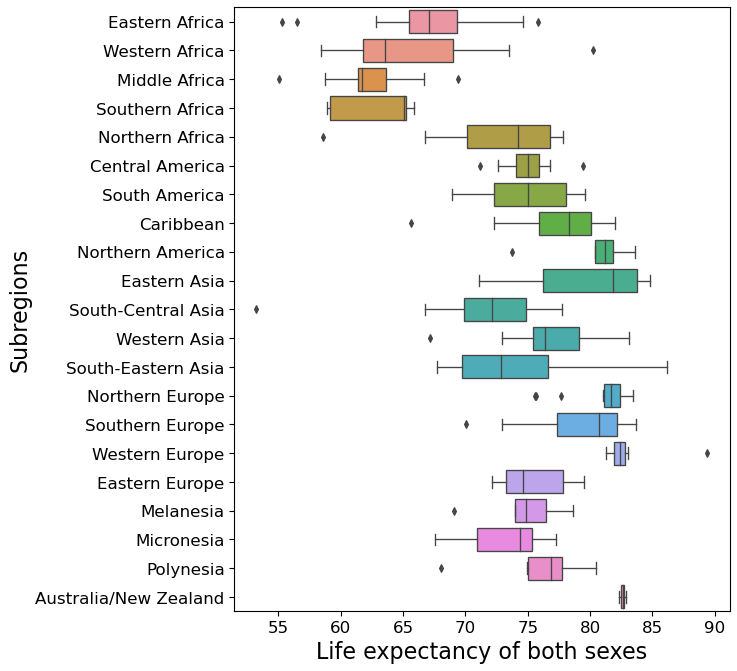
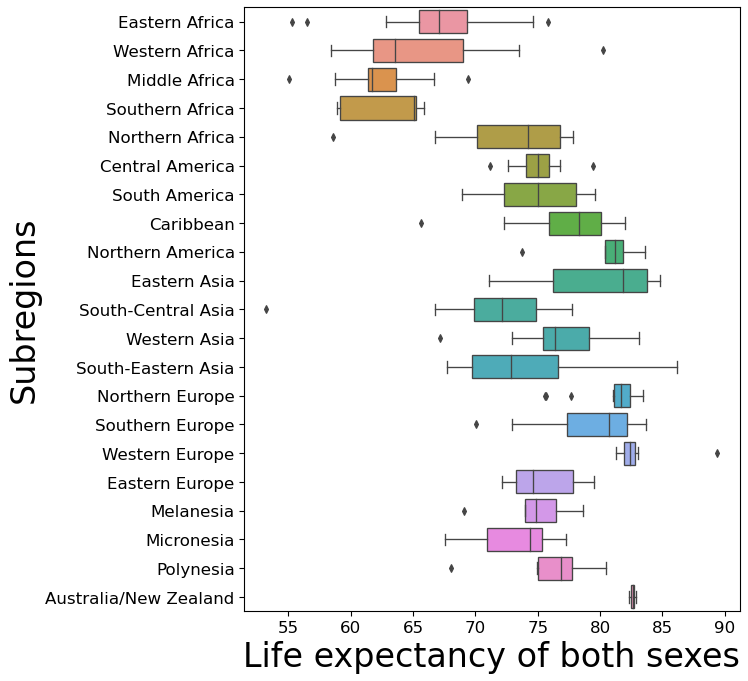
Updated markdown to submission version

diff --git a/Markdown/Problem_1_Code_Raj_231811.md b/Markdown/Problem_1_Code_Raj_231811.md
@@ -415,7 +415,7 @@ plt.savefig('Plots/Heat_Map_Pearson_Correlation.pdf')
 
 
 ```python
-plt.figure(figsize=(10, 10), dpi=100)
+plt.figure(figsize=(10, 10), dpi=80)
 cols_to_plot = data_from_year_2021.columns[4:8].tolist()
 sns_pair = sns.pairplot(data_from_year_2021[cols_to_plot], size=4)
 sns.set_context("paper", rc={"axes.labelsize":16})
@@ -425,7 +425,7 @@ sns_pair.savefig('Plots/Pairplot_Four_Variables.pdf')
 ```
 
 
-    <Figure size 1000x1000 with 0 Axes>
+    <Figure size 800x800 with 0 Axes>
 
 
 
@@ -441,8 +441,8 @@ sns_pair.savefig('Plots/Pairplot_Four_Variables.pdf')
 # Boxplots for describing the data for subregions - Infant mortality rate for both sexes
 plt.figure(figsize=(8, 10), dpi=80)
 ax = sns.boxplot(x='Infant_Mortality_Rate_Both_Sexes', y='Subregion', data=data_from_year_2021.sort_values(by="Region"))
-plt.xlabel("Infant mortality rate of both sexes", fontsize=20)
-plt.ylabel("Subregions", fontsize=20)
+plt.xlabel("Infant mortality rate of both sexes", fontsize=30)
+plt.ylabel("Subregions", fontsize=30)
 plt.show()
 plt.savefig('Plots/Boxplot_Infant_Mortality_Rate_Both_Sexes.pdf')
 ```
@@ -462,8 +462,8 @@ plt.savefig('Plots/Boxplot_Infant_Mortality_Rate_Both_Sexes.pdf')
 # Boxplots for describing the data for subregions - Life expectancy of both sexes
 plt.figure(figsize=(8, 10), dpi=80)
 ax = sns.boxplot(x='Life_Expectancy_Both_Sexes', y='Subregion', data=data_from_year_2021.sort_values(by="Region"))
-plt.xlabel("Life expectancy of both sexes", fontsize=20)
-plt.ylabel("Subregions", fontsize=20)
+plt.xlabel("Life expectancy of both sexes", fontsize=30)
+plt.ylabel("Subregions", fontsize=30)
 plt.show()
 plt.savefig('Plots/Boxplot_Life_Expectancy_Both_Sexes.pdf')
 ```
@@ -483,8 +483,8 @@ plt.savefig('Plots/Boxplot_Life_Expectancy_Both_Sexes.pdf')
 # Boxplots for describing the data for subregions - Life expectancy of males
 plt.figure(figsize=(8, 10), dpi=80)
 ax = sns.boxplot(x='Life_Expectancy_Males', y='Subregion', data=data_from_year_2021.sort_values(by="Region"))
-plt.xlabel("Life expectancy of males", fontsize=20)
-plt.ylabel("Subregions", fontsize=20)
+plt.xlabel("Life expectancy of males", fontsize=30)
+plt.ylabel("Subregions", fontsize=30)
 plt.show()
 plt.savefig('Plots/Boxplot_Life_Expectancy_Males.pdf')
 ```
@@ -504,8 +504,8 @@ plt.savefig('Plots/Boxplot_Life_Expectancy_Males.pdf')
 # Boxplots for describing the data for subregions - Life expectancy of females
 plt.figure(figsize=(8, 10), dpi=80)
 ax = sns.boxplot(x='Life_Expectancy_Females', y='Subregion', data=data_from_year_2021.sort_values(by="Region"))
-plt.xlabel("Life expectancy of females", fontsize=20)
-plt.ylabel("Subregions", fontsize=20)
+plt.xlabel("Life expectancy of females", fontsize=30)
+plt.ylabel("Subregions", fontsize=30)
 plt.show()
 plt.savefig('Plots/Boxplot_Life_Expectancy_Females.pdf')
 ```
@@ -559,7 +559,8 @@ new_df["Region"] = np.array(data_from_year_2001["Region"])
 new_df["Country.Name"] = np.array(data_from_year_2001["Country.Name"])
 cd = sns.scatterplot(x="2001", y="2021", data=new_df, hue="Region")
 
-#print((new_df.sort_values('2001')).to_string())
+# Describe the data to show the statistical analysis
+print(round(new_df.describe(), 2))
 
 # Plotting the regression line using least squares polynomial fit
 X = new_df["2001"]
@@ -567,24 +568,43 @@ Y = new_df["2021"]
 slope, intercept = np.polyfit(X, Y, 1)
 plt.plot(X, X*slope + intercept, 'k')
 
-plt.text(144.77, 106.75, "Afghanistan", size="x-large")
-plt.text(54.91, 29.51, "Kosovo", size="x-large")
-plt.text(12.92, 10.83, "Seychelles", size="x-large")
-plt.text(99.75, 27.16, "Rawanda", size="x-large")
-plt.text(72.75, 41.29, "Haiti", size="x-large")
+# Print data to check the difference in values to plot text
+#print((new_df.sort_values('2001')).to_string())
+
+# Plot some countries that shows some off/similar trends
+plt.text(144.77, 106.75, "Afghanistan", size="20")
+plt.text(54.91, 29.51, "Kosovo", size="20")
+plt.text(12.92, 10.83, "Seychelles", size="20")
+plt.text(99.75, 27.16, "Rawanda", size="20")
+plt.text(72.75, 41.29, "Haiti", size="20")
 
 plt.xlabel("Year 2001", fontsize=20)
 plt.ylabel("Year 2021", fontsize=20)
 plt.title("Infant Mortality Rate Both Sexes", fontsize=20)
 plt.legend(prop={'size': 18})
 plt.show()
-#plt.savefig('Plots/Scatter_Infant_Mortality_Rate_Both_Sexes.pdf')
+plt.savefig('Plots/Scatter_Infant_Mortality_Rate_Both_Sexes.pdf')
 ```
 
+             2001    2021
+    count  221.00  221.00
+    mean    34.98   20.13
+    std     33.20   19.10
+    min      1.57    1.53
+    25%      9.04    6.38
+    50%     20.74   12.58
+    75%     54.91   29.45
+    max    144.77  106.75
+    
+
 
     
-![png](output_25_0.png)
+![png](output_25_1.png)
     
+
+
+
+    <Figure size 432x288 with 0 Axes>
 
 
 
@@ -599,7 +619,8 @@ new_df["Region"] = np.array(data_from_year_2001["Region"])
 new_df["Country.Name"] = np.array(data_from_year_2001["Country.Name"])
 cd = sns.scatterplot(x="2001", y="2021", data=new_df, hue="Region")
 
-#print((new_df.sort_values('2001')).to_string())
+# Describe the data to show the statistical analysis
+print(round(new_df.describe(), 2))
 
 # Plotting the regression line using least squares polynomial fit
 X = new_df["2001"]
@@ -607,10 +628,13 @@ Y = new_df["2021"]
 slope, intercept = np.polyfit(X, Y, 1)
 plt.plot(X, X*slope + intercept, 'k')
 
+# Print data to check the difference in values to plot text
+#print((new_df.sort_values('2001')).to_string())
+
 # Plot some countries that shows some off/similar trends
-plt.text(45.81, 53.25, "Afghanistan", size="x-large")
-plt.text(85.96, 89.40, "Monaco", size="x-large")
-plt.text(68.63,  74.38, "Marshall Islands", size="x-large")
+plt.text(45.81, 53.25, "Afghanistan", size="20")
+plt.text(85.96, 89.40, "Monaco", size="20")
+plt.text(68.63,  74.38, "Marshall Islands", size="20")
 
 plt.xlabel("Year 2001", fontsize=20)
 plt.ylabel("Year 2021", fontsize=20)
@@ -620,9 +644,20 @@ plt.show()
 plt.savefig('Plots/Scatter_Life_Expectancy_Both_Sexes.pdf')
 ```
 
+             2001    2021
+    count  221.00  221.00
+    mean    68.53   74.31
+    std      9.58    6.88
+    min     44.21   53.25
+    25%     62.03   69.80
+    50%     71.54   75.56
+    75%     75.61   79.41
+    max     85.96   89.40
+    
+
 
     
-![png](output_26_0.png)
+![png](output_26_1.png)
     
 
 
@@ -642,7 +677,8 @@ new_df["Region"] = np.array(data_from_year_2001["Region"])
 new_df["Country.Name"] = np.array(data_from_year_2001["Country.Name"])
 cd = sns.scatterplot(x="2001", y="2021", data=new_df, hue="Region")
 
-#print((new_df.sort_values('2001')).to_string())
+# Describe the data to show the statistical analysis
+print(round(new_df.describe(), 2))
 
 # Plotting the regression line using least squares polynomial fit
 X = new_df["2001"]
@@ -650,10 +686,13 @@ Y = new_df["2021"]
 slope, intercept = np.polyfit(X, Y, 1)
 plt.plot(X, X*slope + intercept, 'k')
 
+# Print data to check the difference in values to plot text
+#print((new_df.sort_values('2001')).to_string())
+
 # Plot some countries that shows some off/similar trends
-plt.text(46.83, 54.85, "Afghanistan", size="x-large")
-plt.text(89.40, 93.40, "Monaco", size="x-large")
-plt.text(70.60, 76.76, "Marshall Islands", size="x-large")
+plt.text(46.83, 54.85, "Afghanistan", size="20")
+plt.text(89.40, 93.40, "Monaco", size="20")
+plt.text(70.60, 76.76, "Marshall Islands", size="20")
 
 plt.xlabel("Year 2001", fontsize=20)
 plt.ylabel("Year 2021", fontsize=20)
@@ -663,9 +702,20 @@ plt.show()
 plt.savefig('Plots/Scatter_Life_Expectancy_Females.pdf')
 ```
 
+             2001    2021
+    count  221.00  221.00
+    mean    70.97   76.93
+    std     10.14    7.17
+    min     44.78   54.85
+    25%     63.63   72.38
+    50%     74.06   78.36
+    75%     78.29   82.22
+    max     89.40   93.40
+    
+
 
     
-![png](output_27_0.png)
+![png](output_27_1.png)
     
 
 
@@ -685,7 +735,8 @@ new_df["Region"] = np.array(data_from_year_2001["Region"])
 new_df["Country.Name"] = np.array(data_from_year_2001["Country.Name"])
 cd = sns.scatterplot(x="2001", y="2021", data=new_df, hue="Region")
 
-#print((new_df.sort_values('2001')).to_string())
+# Describe the data to show the statistical analysis
+print(round(new_df.describe(), 2))
 
 # Plotting the regression line using least squares polynomial fit
 X = new_df["2001"]
@@ -693,10 +744,13 @@ Y = new_df["2021"]
 slope, intercept = np.polyfit(X, Y, 1)
 plt.plot(X, X*slope + intercept, 'k')
 
+# Print data to check the difference in values to plot text
+#print((new_df.sort_values('2001')).to_string())
+
 # Plot some countries that shows some off/similar trends
-plt.text(44.85,  51.73, "Afghanistan", size="x-large")
-plt.text(82.82,  85.55, "Monaco", size="x-large")
-plt.text(66.76,  72.12, "Marshall Islands", size="x-large")
+plt.text(44.85,  51.73, "Afghanistan", size="20")
+plt.text(82.82,  85.55, "Monaco", size="20")
+plt.text(66.76,  72.12, "Marshall Islands", size="20")
 
 plt.xlabel("Year 2001", fontsize=20)
 plt.ylabel("Year 2021", fontsize=20)
@@ -706,9 +760,20 @@ plt.show()
 plt.savefig('Plots/Scatter_Life_Expectancy_Males.pdf')
 ```
 
+             2001    2021
+    count  221.00  221.00
+    mean    66.23   71.81
+    std      9.18    6.71
+    min     43.06   51.73
+    25%     59.64   67.65
+    50%     68.78   72.99
+    75%     73.27   76.85
+    max     82.82   85.55
+    
+
 
     
-![png](output_28_0.png)
+![png](output_28_1.png)
     
 
 
